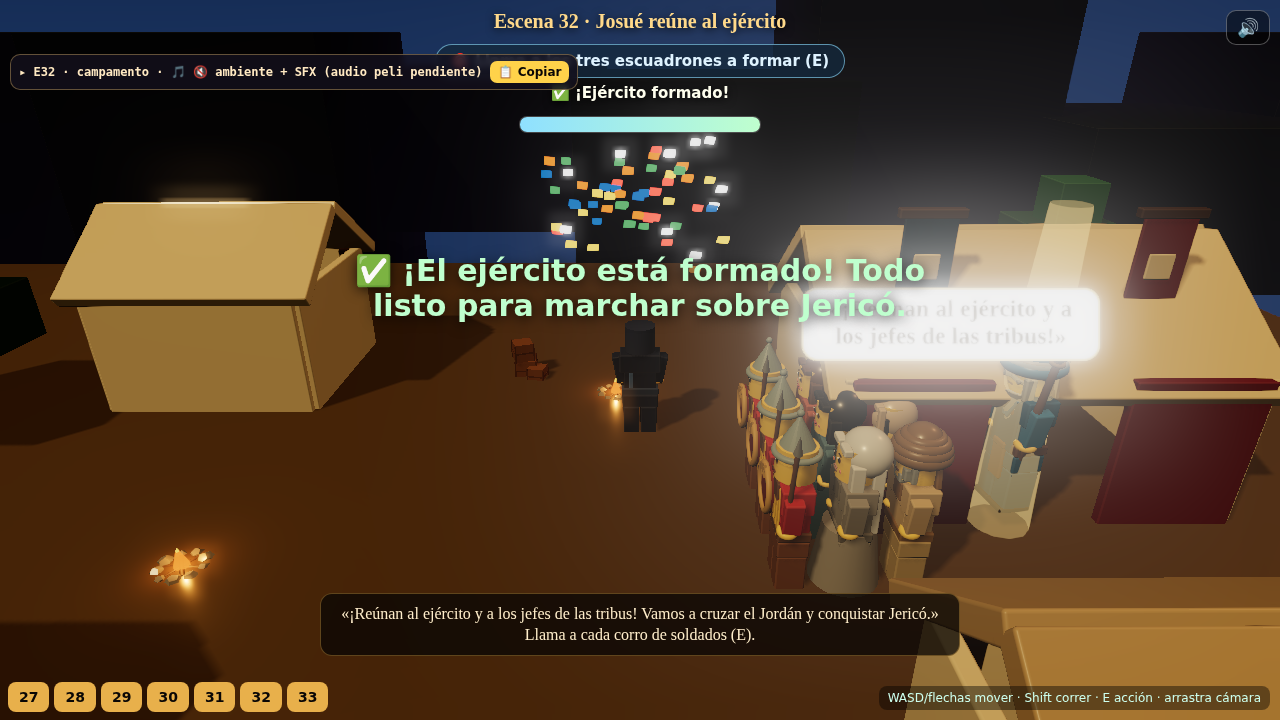
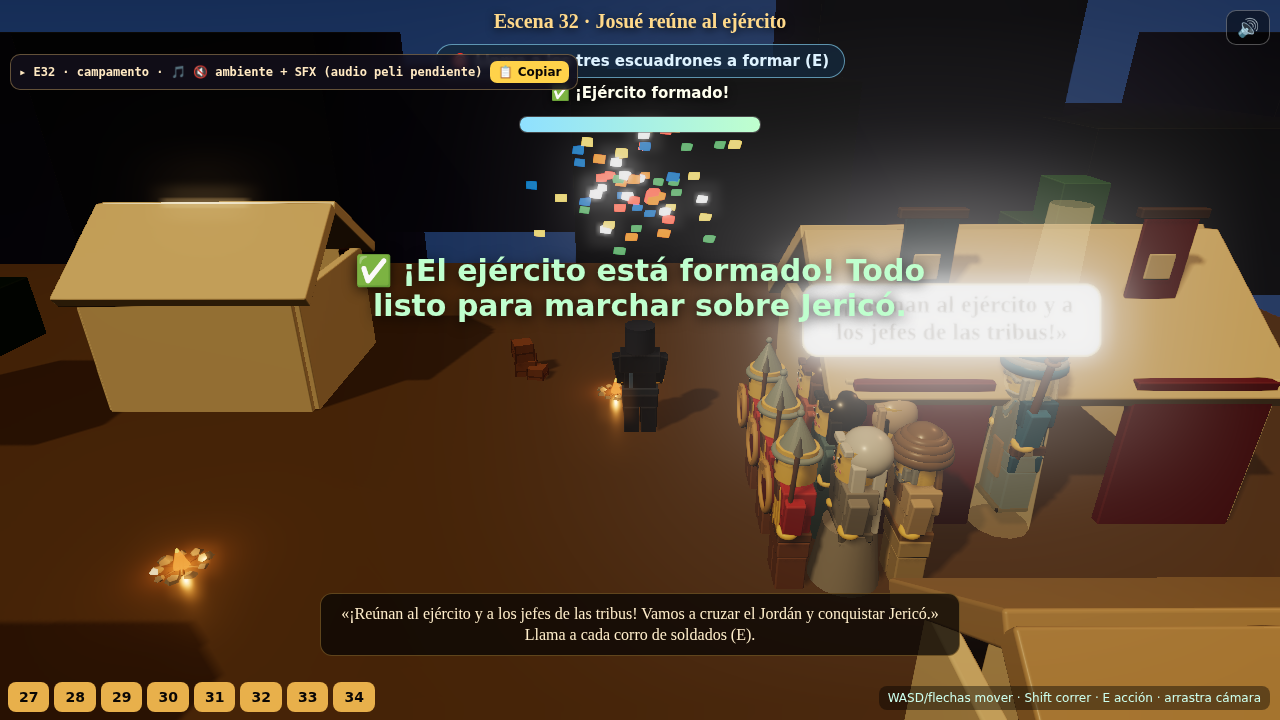
15-20 ciclo 5: esc34 "Taller de shofarot" — TRAMO 15-20 COMPLETO
- esc34 (biblia peli.json escena_33): recoger 3 shofarot tallados de los bancos de
  los levitas y entregarlos al Cohen (PRIEST_SKIN); el Cohen los bendice y el
  carnero comico cruza corriendo (gag 12:16/12:39). Carpa blanca + virutas + enseres.
- Con esto el 15-20 queda completo: cordon, descuelgue, esconderse, cruce, parte a
  Josue, reunir ejercito, preparativos, shofarot (esc27-34).
- QA jugado (Playwright headless): esc29-34 completadas, 0 errores de consola.

Claude-Session: https://claude.ai/code/session_013fFFkfCW6KbozAWv3bUY7r

diff --git a/mundo-ladrillos/src/scenes/min15/escena34_shofarot.ts b/mundo-ladrillos/src/scenes/min15/escena34_shofarot.ts
@@ -1,0 +1,213 @@
+import * as THREE from 'three';
+import { Min15Scene, SceneContext, SceneInstance } from './types';
+import { GuideBeacon, makeBubble } from './props/guide';
+import { buildGround, buildMoonNight, buildPine } from './props/wild';
+import { buildTent } from '../min05/props/BrickProps';
+import { buildBanner } from '../min05/props/NightAmbience';
+import { buildFirePit, buildCrateStack, buildSackPile } from '../../world/Clutter';
+import { createMinifigure, Minifigure, villagerSkin, PRIEST_SKIN } from '../../characters/MinifigureFactory';
+import { BrickPalette } from '../../materials/BrickPalette';
+
+/**
+ * ESCENA 34 (peli 20:14 / escena_33) — EL TALLER DE LOS SHOFAROT (cierre del tramo).
+ * El Sacerdote (Cohen) reúne a los levitas en una carpa y ordena preparar los
+ * Shofarot de cuerno (biblia peli.json escena_33): «montaje de sacerdotes tallando,
+ * puliendo y lijando los cuernos curvos… escena cómica de un carnero que huye».
+ * Transcripción: «Hermanos míos, preparen los chofarot» (12:16) + gag «a mí no me
+ * dieron chofer» (12:39). 🚫 NO es el soplido del clímax (murallas 25–29): aquí solo
+ * se PREPARAN los cuernos.
+ *
+ * MINI-JUEGO (recoger y entregar): el niño recoge los TRES shofarot recién tallados
+ * de los bancos de los levitas (E) y se los lleva al Cohen (E). El Cohen los bendice
+ * y prueba uno; entonces el carnero cómico cruza corriendo el taller (gag). Fin del
+ * tramo 15–20: todo listo para la marcha (que ya es del 20–25).
+ */
+const BENCHES: Array<{ x: number; z: number }> = [{ x: -8, z: -4 }, { x: 0, z: 6 }, { x: 6, z: -4 }];
+const COHEN = { x: 12, z: 0 };
+
+/** Shofar: cuerno curvo beige (cilindros que se estrechan y curvan). */
+function buildShofar(P: SceneContext['plastic'], s = 1): THREE.Group {
+  const g = new THREE.Group();
+  const col = [0xe9d6a8, 0xd8c193, 0xc7ad7a];
+  let x = 0, y = 0, ang = 0;
+  for (let i = 0; i < 5; i++) {
+    const r = (0.16 - i * 0.022) * s;
+    const len = 0.5 * s;
+    const seg = new THREE.Mesh(new THREE.CylinderGeometry(r, r + 0.03 * s, len, 8), P.get(col[i % 3]));
+    seg.rotation.z = Math.PI / 2 - ang;
+    seg.position.set(x + Math.cos(ang) * len / 2, y + Math.sin(ang) * len / 2, 0);
+    g.add(seg);
+    x += Math.cos(ang) * len; y += Math.sin(ang) * len; ang += 0.5;
+  }
+  return g;
+}
+
+/** Carnero cómico de ladrillo (cuerpo lanudo + cuernos curvados + cara). Mira +x. */
+function buildRam(P: SceneContext['plastic']): THREE.Group {
+  const g = new THREE.Group();
+  const wool = P.get(0xf0e9da), dark = P.get(0x8a7a5c);
+  const body = new THREE.Mesh(new THREE.BoxGeometry(1.5, 0.9, 0.9), wool); body.position.y = 0.95; body.castShadow = true; g.add(body);
+  // lana (bultitos)
+  for (const [bx, bz] of [[-0.4, 0.3], [0.3, -0.3], [0, 0.35], [-0.3, -0.3]]) g.add(new THREE.Mesh(new THREE.SphereGeometry(0.32, 8, 6), wool).translateX(bx).translateY(1.15).translateZ(bz));
+  const head = new THREE.Mesh(new THREE.BoxGeometry(0.6, 0.6, 0.55), P.get(0xe0d6bf)); head.position.set(0.9, 1.05, 0); g.add(head);
+  // cuernos curvados (dos toros parciales)
+  for (const sz of [-0.22, 0.22]) { const h = new THREE.Mesh(new THREE.TorusGeometry(0.22, 0.06, 6, 10, Math.PI * 1.3), dark); h.position.set(0.95, 1.3, sz); h.rotation.y = Math.PI / 2; g.add(h); }
+  // ojos
+  for (const sz of [-0.16, 0.16]) g.add(new THREE.Mesh(new THREE.CircleGeometry(0.06, 8), new THREE.MeshBasicMaterial({ color: 0x101018 })).translateX(1.21).translateY(1.1).translateZ(sz));
+  // patas
+  for (const [lx, lz] of [[-0.5, 0.3], [0.5, 0.3], [-0.5, -0.3], [0.5, -0.3]]) g.add(new THREE.Mesh(new THREE.CylinderGeometry(0.11, 0.11, 0.9, 6), dark).translateX(lx).translateY(0.45).translateZ(lz));
+  return g;
+}
+
+export const escena34: Min15Scene = {
+  id: 'm15_34_shofarot',
+  numero: 34,
+  mundo: 'taller',
+  titulo: 'El taller de los shofarot',
+  subtitulo: '«Hermanos míos, preparen los shofarot.» Recoge los tres cuernos tallados (E) y llévaselos al Cohen.',
+  jugador: 'spy',
+  noche: true,
+  ambiente: 'night',
+  spawn: { x: -14, z: 2 },
+  objetivo: { tipo: 'ir_a', texto: 'Recoge los 3 shofarot y dáselos al Cohen (E)', target: { x: BENCHES[0].x, z: BENCHES[0].z }, radio: 2.4 },
+  exito: '¡Shofarot listos! El Cohen los bendice. Todo preparado para la marcha.',
+  camara: { yaw: 0, pitch: 0.42, dist: 26 },
+  intro: {
+    from: { x: -22, y: 11, z: 22 }, to: { x: -13, y: 6, z: 14 },
+    lookFrom: { x: 6, y: 2, z: 0 }, lookTo: { x: 12, y: 2, z: 0 }, seconds: 3.0
+  },
+
+  build(ctx: SceneContext): SceneInstance {
+    const group = new THREE.Group();
+    const P = ctx.plastic;
+
+    group.add(buildGround(P, 0x6a5334, 74, 54));
+    group.add(buildMoonNight(P));
+
+    // --- La CARPA-TALLER de los levitas (grande, abierta) + estandartes ---
+    const carpa = buildTent(P, BrickPalette.WHITE, 16, 12, true);
+    carpa.position.set(4, 0, -3); group.add(carpa);
+    const banA = buildBanner(P, BrickPalette.DARK_BLUE, 1.4, 3.4); banA.position.set(-3.5, 4.6, 0); group.add(banA);
+    const banB = buildBanner(P, BrickPalette.GOLD, 1.4, 3.4); banB.position.set(11.5, 4.6, 0); group.add(banB);
+    // tiendas y enseres alrededor (Regla Nº1)
+    const t2 = buildTent(P, BrickPalette.WARM_SAND, 7, 6, false); t2.position.set(-13, 0, -10); group.add(t2); ctx.addObstacle(-13, -10, 3.5, 3);
+    const t3 = buildTent(P, BrickPalette.SAND, 6, 6, false); t3.position.set(-14, 0, 9); group.add(t3); ctx.addObstacle(-14, 9, 3, 3);
+    group.add(buildCrateStack(P, { x: -6, z: 9, n: 2 })); ctx.addObstacle(-6, 9, 1, 1);
+    group.add(buildSackPile(P, { x: 10, z: 8 })); ctx.addObstacle(10, 8, 1, 1);
+    group.add(buildPine(P, -21, -6, 1.6)); group.add(buildPine(P, 21, -11, 1.5)); group.add(buildPine(P, -22, 12, 1.4));
+    group.add(buildFirePit(P, { x: -6, z: 2 }));
+    group.add(buildFirePit(P, { x: 9, z: -8 }));
+
+    // --- 3 BANCOS de tallado, cada uno con un levita y un shofar tallándose ---
+    const benchShofars: THREE.Group[] = [];
+    const levites: Minifigure[] = [];
+    BENCHES.forEach((b, i) => {
+      const bench = new THREE.Group(); bench.position.set(b.x, 0, b.z); group.add(bench);
+      bench.add(new THREE.Mesh(new THREE.BoxGeometry(2, 0.4, 1), P.get(BrickPalette.BROWN)).translateY(1.1));
+      for (const sx of [-0.8, 0.8]) bench.add(new THREE.Mesh(new THREE.CylinderGeometry(0.1, 0.1, 1.1, 6), P.get(BrickPalette.DARK_BROWN)).translateX(sx).translateY(0.55));
+      const sh = buildShofar(P, 1.1); sh.position.set(0, 1.45, 0); sh.rotation.y = 0.4; bench.add(sh); benchShofars.push(sh);
+      const lev = createMinifigure(P, villagerSkin(10 + i)); lev.root.position.set(0, 0, 1.1); lev.root.rotation.y = Math.PI; bench.add(lev.root); levites.push(lev);
+      // virutas de tallado (Regla Nº1: rincón vivo)
+      for (let k = 0; k < 4; k++) bench.add(new THREE.Mesh(new THREE.BoxGeometry(0.14, 0.03, 0.06), P.get(0xd8c193)).translateX((k - 1.5) * 0.3).translateY(0.92).translateZ(0.3));
+    });
+
+    // --- COHEN (sacerdote) al que se entregan los shofarot ---
+    const cohen: Minifigure = createMinifigure(P, PRIEST_SKIN);
+    cohen.root.position.set(COHEN.x, 0, COHEN.z); cohen.root.rotation.y = -Math.PI / 2; cohen.root.scale.setScalar(1.06); group.add(cohen.root);
+    const cohenShofar = buildShofar(P, 1.3); cohenShofar.position.set(COHEN.x - 0.2, 3.0, COHEN.z + 0.4); cohenShofar.rotation.z = 0.5; cohenShofar.visible = false; group.add(cohenShofar);
+    const pillar = new THREE.Mesh(new THREE.CylinderGeometry(0.5, 0.9, 9, 12, 1, true),
+      new THREE.MeshBasicMaterial({ color: 0xffe9b0, transparent: true, opacity: 0.15, side: THREE.DoubleSide, depthWrite: false }));
+    pillar.position.set(COHEN.x, 4.5, COHEN.z); group.add(pillar);
+    const orderBubble = makeBubble('«Hermanos míos, ¡preparad los shofarot!» — el Cohen', { w: 8.2 });
+    orderBubble.position.set(COHEN.x - 1.5, 6.2, COHEN.z); group.add(orderBubble);
+    const gagBubble = makeBubble('«¡A mí no me dieron chofer!» 🐏', { w: 6 });
+    gagBubble.position.set(3, 3.2, 8); gagBubble.visible = false; group.add(gagBubble);
+
+    // --- CARNERO cómico que trota por el taller (gag; corre más al final) ---
+    const ram = buildRam(P); ram.position.set(-6, 0, 9); group.add(ram);
+
+    // shofar que el niño LLEVA (aparece al recoger el primero)
+    const carried = buildShofar(P, 1); carried.visible = false; group.add(carried);
+
+    const beacon = new GuideBeacon(BENCHES[0].x, BENCHES[0].z, { action: true });
+    group.add(beacon.group);
+
+    ctx.scene.add(group);
+
+    type Phase = 'gather' | 'deliver' | 'done';
+    let phase: Phase = 'gather';
+    let got = 0, idx = 0, endT0 = 0;
+    let doneFlag = false;
+    const R = escena34.objetivo.radio ?? 2.4;
+
+    return {
+      group,
+      update(dt, t, player): void {
+        beacon.update(t);
+        cohen.root.rotation.y = -Math.PI / 2 + Math.sin(t * 0.7) * 0.12; cohen.update(dt, false);
+        pillar.material.opacity = 0.11 + Math.sin(t * 2) * 0.05;
+        orderBubble.position.y = 6.2 + Math.sin(t * 3) * 0.1;
+        for (const l of levites) l.update(dt, phase === 'gather', 0.4); // tallando
+        benchShofars.forEach((s, i) => { s.rotation.y = 0.4 + Math.sin(t * 2 + i) * 0.2; });
+
+        // carnero trotando (círculo cómico); más rápido en 'done'
+        const spd = phase === 'done' ? 3.2 : 1.0;
+        ram.position.x = -2 + Math.cos(t * spd) * 7;
+        ram.position.z = 8 + Math.sin(t * spd) * 3;
+        ram.rotation.y = -t * spd + Math.PI / 2;
+        ram.position.y = Math.abs(Math.sin(t * spd * 3)) * 0.25; // brinquitos
+
+        // el shofar que llevas sigue al niño
+        if (got > 0 && phase !== 'done') { carried.visible = true; carried.position.set(player.x + 0.5, 2.4 + Math.sin(t * 4) * 0.05, player.z + 0.3); carried.rotation.y = t; }
+
+        if (phase === 'gather') {
+          const b = BENCHES[idx];
+          const near = Math.hypot(player.x - b.x, player.z - b.z) < R;
+          if (near && ctx.wantsInteract()) {
+            benchShofars[idx].visible = false; got++;
+            ctx.sound.pickup?.();
+            idx++;
+            if (idx < BENCHES.length) beacon.setPos(BENCHES[idx].x, BENCHES[idx].z);
+            else { beacon.setPos(COHEN.x, COHEN.z); phase = 'deliver'; }
+          }
+        } else if (phase === 'deliver') {
+          const near = Math.hypot(player.x - COHEN.x, player.z - COHEN.z) < R;
+          if (near && ctx.wantsInteract()) {
+            phase = 'done'; endT0 = t;
+            carried.visible = false; cohenShofar.visible = true; gagBubble.visible = true;
+            beacon.visible = false; ctx.sound.success?.();
+          }
+        } else {
+          cohen.root.rotation.z = Math.sin(t * 6) * 0.06; // el Cohen prueba el shofar
+          gagBubble.position.set(ram.position.x, ram.position.y + 3.2, ram.position.z); // el bocadillo sigue al carnero
+          if (t - endT0 > 1.2) doneFlag = true;
+        }
+      },
+      status(): string | null {
+        if (phase === 'gather') return `🐚 Recoge los shofarot: ${got}/${BENCHES.length}`;
+        if (phase === 'deliver') return '🎁 ¡Llévaselos al Cohen! (E)';
+        return '✅ ¡Shofarot listos! (y el carnero se escapa)';
+      },
+      hud() {
+        const p = ctx.getPlayer();
+        if (phase === 'gather') {
+          const b = BENCHES[idx];
+          const near = Math.hypot(p.x - b.x, p.z - b.z) < R;
+          return { prompt: near ? '🐚 Pulsa E para coger el shofar' : undefined, progress: got / (BENCHES.length + 1) };
+        }
+        if (phase === 'deliver') {
+          const near = Math.hypot(p.x - COHEN.x, p.z - COHEN.z) < R;
+          return { prompt: near ? '🎁 Pulsa E para entregar' : undefined, progress: BENCHES.length / (BENCHES.length + 1) };
+        }
+        return { progress: 1 };
+      },
+      isDone(): boolean { return doneFlag; },
+      dispose(): void {
+        beacon.dispose();
+        (orderBubble.material as THREE.SpriteMaterial).map?.dispose(); orderBubble.material.dispose();
+        (gagBubble.material as THREE.SpriteMaterial).map?.dispose(); gagBubble.material.dispose();
+        group.traverse((obj) => { const m = obj as THREE.Mesh; if (m.geometry) m.geometry.dispose(); });
+      }
+    };
+  }
+};

diff --git a/mundo-ladrillos/src/scenes/min15/registry.ts b/mundo-ladrillos/src/scenes/min15/registry.ts
@@ -6,6 +6,7 @@ import { escena30 } from './escena30_cruce';
 import { escena31 } from './escena31_reporte';
 import { escena32 } from './escena32_ejercito';
 import { escena33 } from './escena33_preparativos';
+import { escena34 } from './escena34_shofarot';
 
 /**
  * Escenas del tramo MINUTO 15–20 ("El cordón rojo y la huida"), en orden jugable.
@@ -25,14 +26,17 @@ import { escena33 } from './escena33_preparativos';
  *   31  el PARTE a Josué (diálogo)                🎮 huida 3/3 · peli 10:42–11:13
  *   32  Josué manda reunir al ejército            🎮 reunir    · peli 11:27–11:37
  *   33  PREPARATIVOS de guerra (afilar/flechas/escudos) 🎮 · peli 19:02 (escena_32)
- *   34  los SHOFAROT del Cohén (gag del carnero)  — pendiente  · peli 20:14 (escena_33, taller)
+ *   34  SHOFAROT del Cohén (recoger+entregar, gag del carnero) 🎮 · peli 20:14 (escena_33, taller)
+ *
+ * Con esc34 el tramo 15–20 queda COMPLETO (huida → parte → preparativos → shofarot).
+ * El Arca + aguas divididas del Jordán (escena_34 peli) es del 20–25 (no se toca aquí).
  *
  * HITO 2 (huida): esconderse → cruzar → parte a Josué (esc 29–31). A partir de ahí,
  * los preparativos: esc32 reunir al ejército (hecho), y quedan esc33/34. El LEAD las
  * integra en el StoryEngine igual que min05/min10.
  */
 export const MIN15_SCENES: Min15Scene[] = [
-  escena27, escena28, escena29, escena30, escena31, escena32, escena33
+  escena27, escena28, escena29, escena30, escena31, escena32, escena33, escena34
 ];
 
 export function sceneById(id: string): Min15Scene | undefined {

diff --git a/mundo-ladrillos/coordinacion/min15-20.md b/mundo-ladrillos/coordinacion/min15-20.md
@@ -259,6 +259,16 @@ escenas con vida, listón 0–5, Regla Nº1). Dos cosas para ti:
    próximamente"** al estilo del 0–5 (usando una frase real de la peli), o corto limpio en
    los shofarot? **Sigo con esc34 salvo que me digas otra cosa** (no me bloqueo).
 
+### Ciclo 5 · 08:17 CEST (27-Jul) — esc34 «Taller de shofarot» ✅ · TRAMO 15–20 COMPLETO
+Cierre del tramo (biblia `peli.json` escena_33): mini-juego de **recoger y entregar** — el
+niño coge los 3 shofarot tallados de los bancos de los levitas (E) y se los lleva al **Cohen**
+(PRIEST_SKIN); el Cohen los bendice y prueba uno, y el **carnero cómico** cruza corriendo el
+taller (gag «¡a mí no me dieron chofer!», transcripción 12:16/12:39). Carpa blanca + levitas
++ virutas de tallado + enseres (Regla Nº1). Remate por reloj de pared. **Ahora el 15–20 está
+completo: esc27 cordón · esc28 descuelgue · esc29 esconderse · esc30 cruce · esc31 parte ·
+esc32 reunir · esc33 preparativos · esc34 shofarot.** QA jugado: **esc29–34 ✅, 0 errores.**
+(Loop pasado a 5 min inteligente, job 283ba5de.)
+
 ### Ciclo 4 · 08:03 CEST (27-Jul) — esc33 «Preparativos de guerra» ✅
 Mini-juego NUEVO de **preparar** (biblia `peli.json` escena_32): 3 estaciones —**afilar
 espadas** en la muela que gira con chispas, **llenar el carcaj** de flechas, **formar la fila
